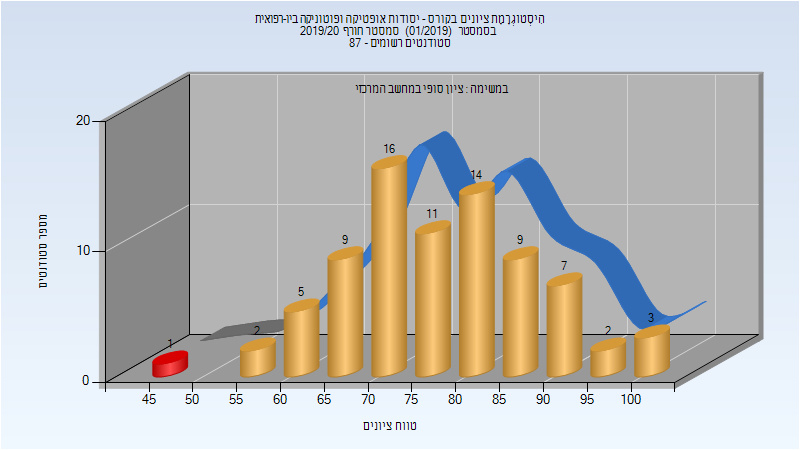
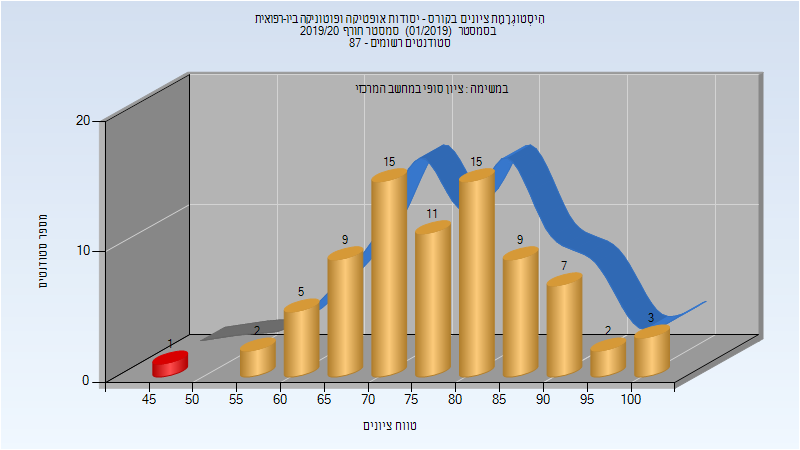
Deploy michael-maltsev/technion-histograms to github.com/michael-maltsev/technion-histograms.git:gh-pages

Changed region(s): [[0.4375, 0.28, 0.6875, 0.4356], [0.6875, 0.4044, 0.7188, 0.4356], [0.6562, 0.4356, 0.6875, 0.4667]]

diff --git a/336533/index.html b/336533/index.html
@@ -198,8 +198,8 @@
 <td>99</td>
 <td>49</td>
 <td>100</td>
-<td>77.873</td>
-<td>76</td>
+<td>78</td>
+<td>78</td>
 </tr>
 </tbody>
 </table>

diff --git a/336533/README.md b/336533/README.md
@@ -57,5 +57,5 @@
 
 | סטודנטים | עברו/נכשלו | אחוז עוברים | ציון מינימלי | ציון מקסימלי | ממוצע | חציון |
 | ---- | ---- | ---- | ---- | ---- | ---- | ---- |
-| 79 | 78/1 | 99 | 49 | 100 | 77.873 | 76 |
+| 79 | 78/1 | 99 | 49 | 100 | 78 | 78 |
 
